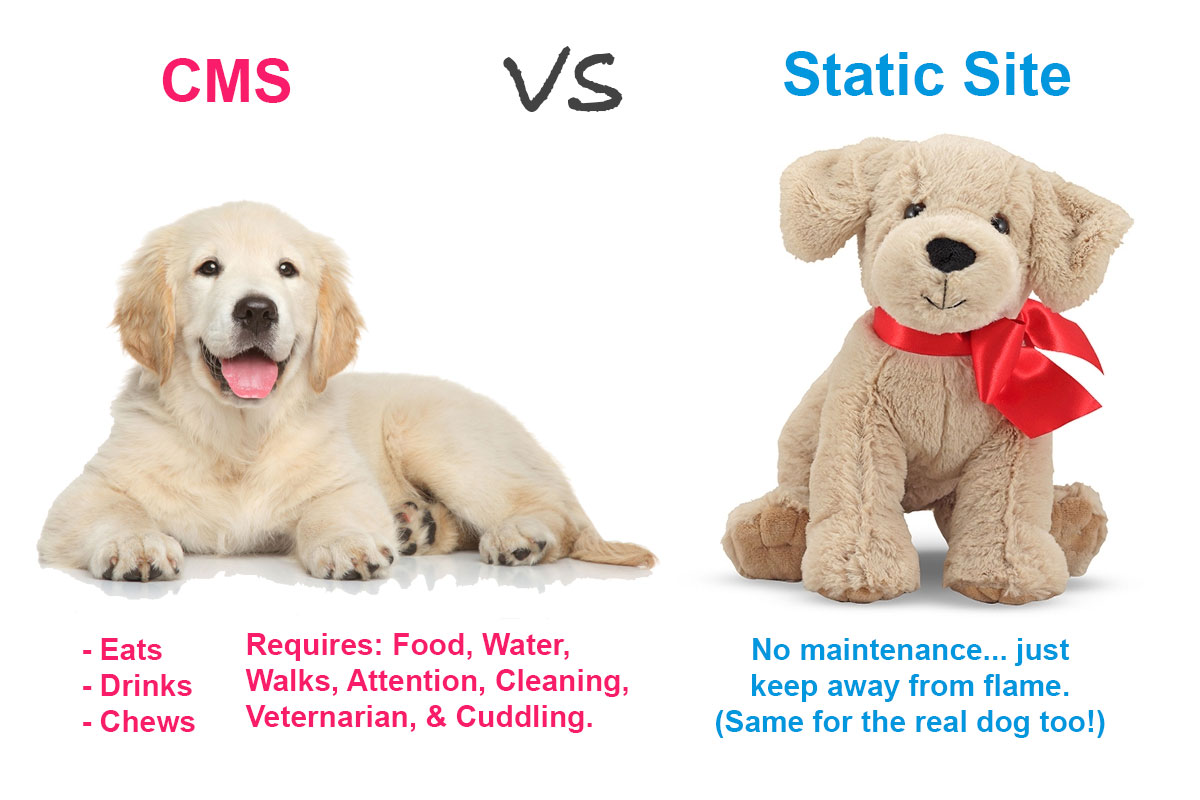
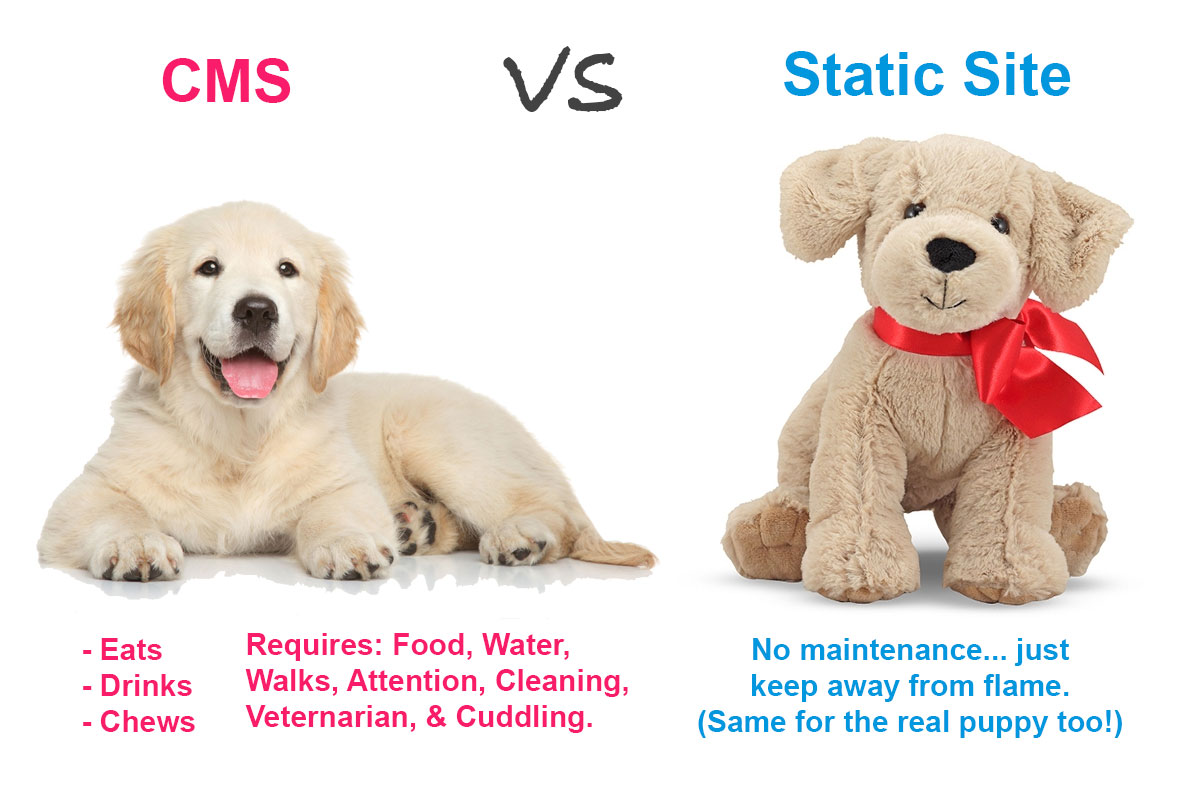
Image & copy updates.

Changed region(s): [[0.5858, 0.875, 0.925, 0.9375]]

diff --git a/src/content/articles/do-you-need-a-cms.md b/src/content/articles/do-you-need-a-cms.md
@@ -63,10 +63,13 @@ No doubt *Estate De La CMS* will be a handful to maintain. With more plumbing co
 more potential for leaks. More doors and windows makes for more points of entry 
 to secure. Water, power, resources... all much higher than the track home.
 
-The house analogy diverges is in the up front cost, which adds a bit of danger. Because of 
+The cost/effort of building *Estate De La CMS* is significantly higher than the *Track Home on Static Circle*.
+
+This would typically be a barrier to entry for anyone not up to the task however the
 <a href="https://en.wikipedia.org/wiki/Free_and_open-source_software">Free
-Open Source Software (FOSS)</a>, you might be able to move into *Estate De La CMS* at a low cost, but it 
-will cost more to maintain and improve upon. If you slack on maintenance, there will be many more problems.
+Open Source Software (FOSS)</a> licenses make it as if *Estate De La CMS* was passed down to you
+by a rich uncle. It comes with great responsibility and if you slack on maintenance, there will be 
+many more problems to come.
 
 Ok, let's get back to web applications...
 
